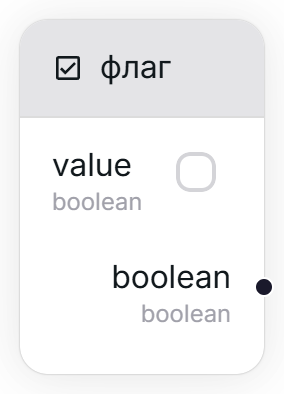
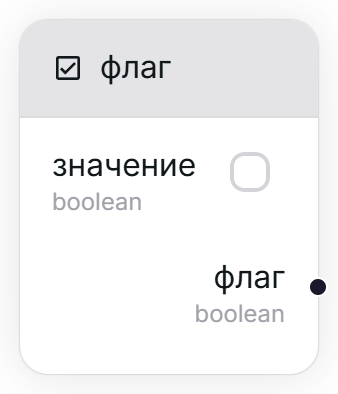
add date-time section & update screenshots for literals

diff --git a/src/components/wrapper.tsx b/src/components/wrapper.tsx
@@ -6,7 +6,7 @@ export function Wrapper(props: HTMLAttributes<HTMLDivElement>) {
 		<div
 			{...props}
 			className={cn(
-				"justify-center items-center flex rounded-lg bg-radial-[at_bottom] from-blue-500/20 p-0 border border-fd-primary/10 prose-no-margin dark:bg-black/20 [&>*]:max-w-[30%]",
+				"justify-center items-center flex rounded-lg bg-radial-[at_bottom] from-blue-500/20 p-0 border border-fd-primary/10 prose-no-margin dark:bg-black/20 [&_img]:h-[30vh] [&_img]:w-auto",
 				props.className,
 			)}
 		>
